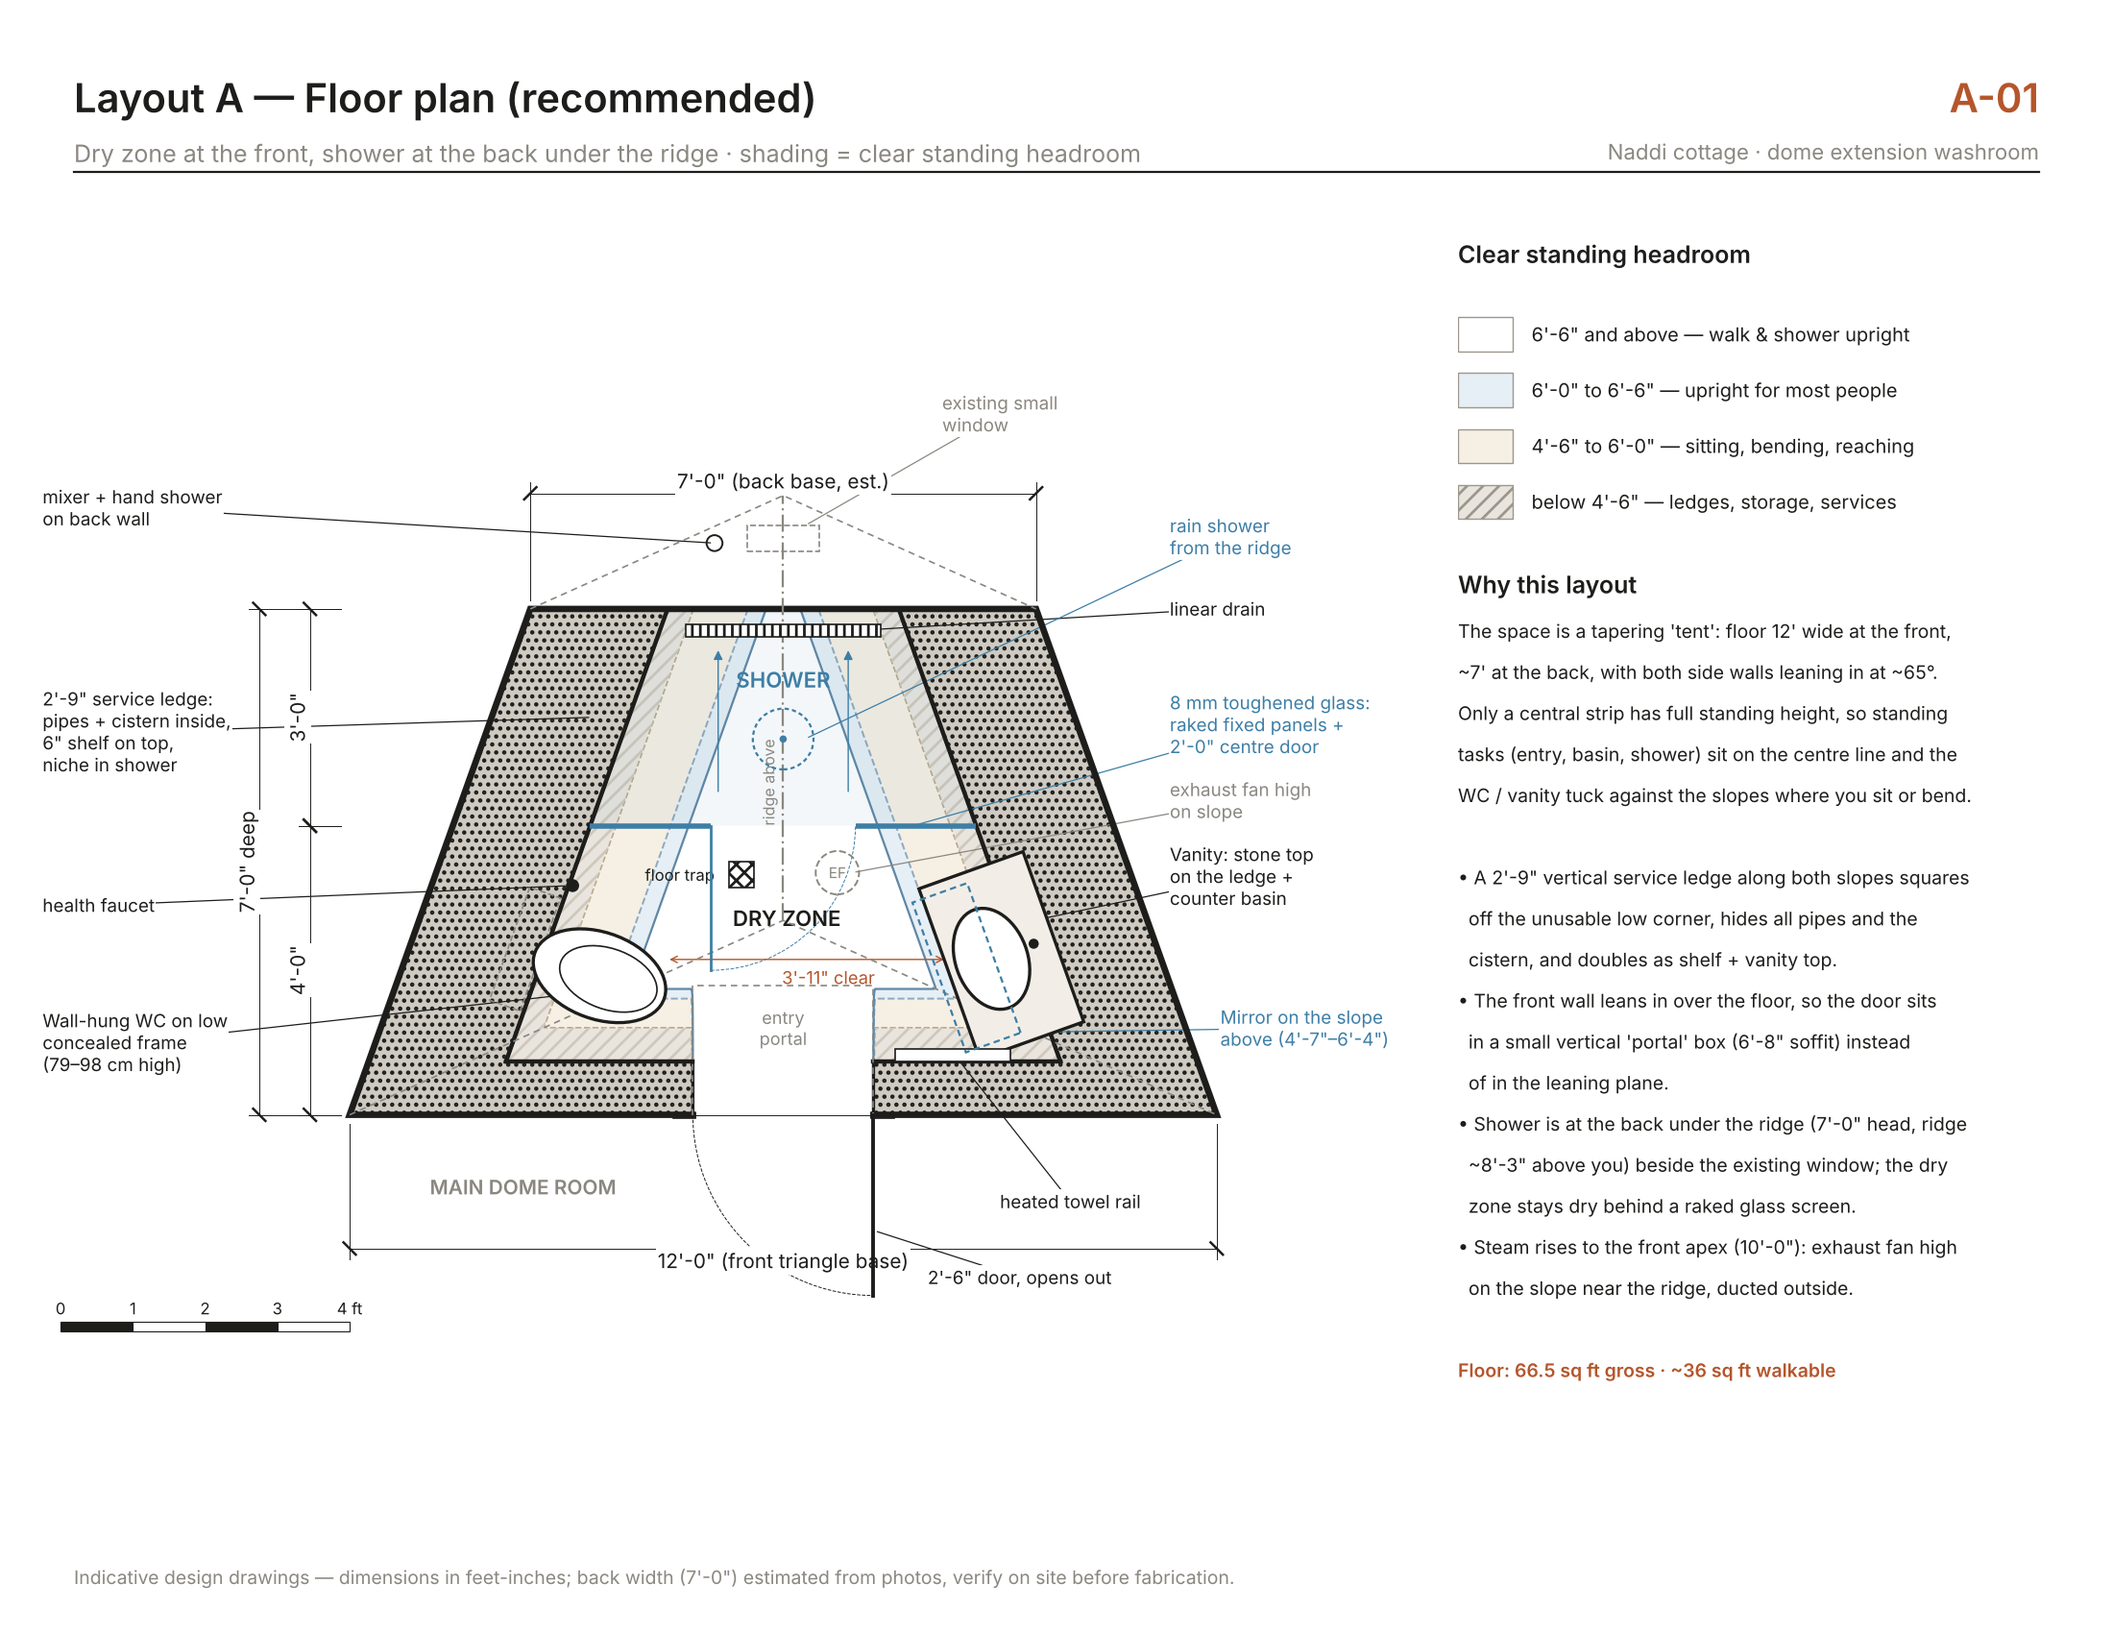
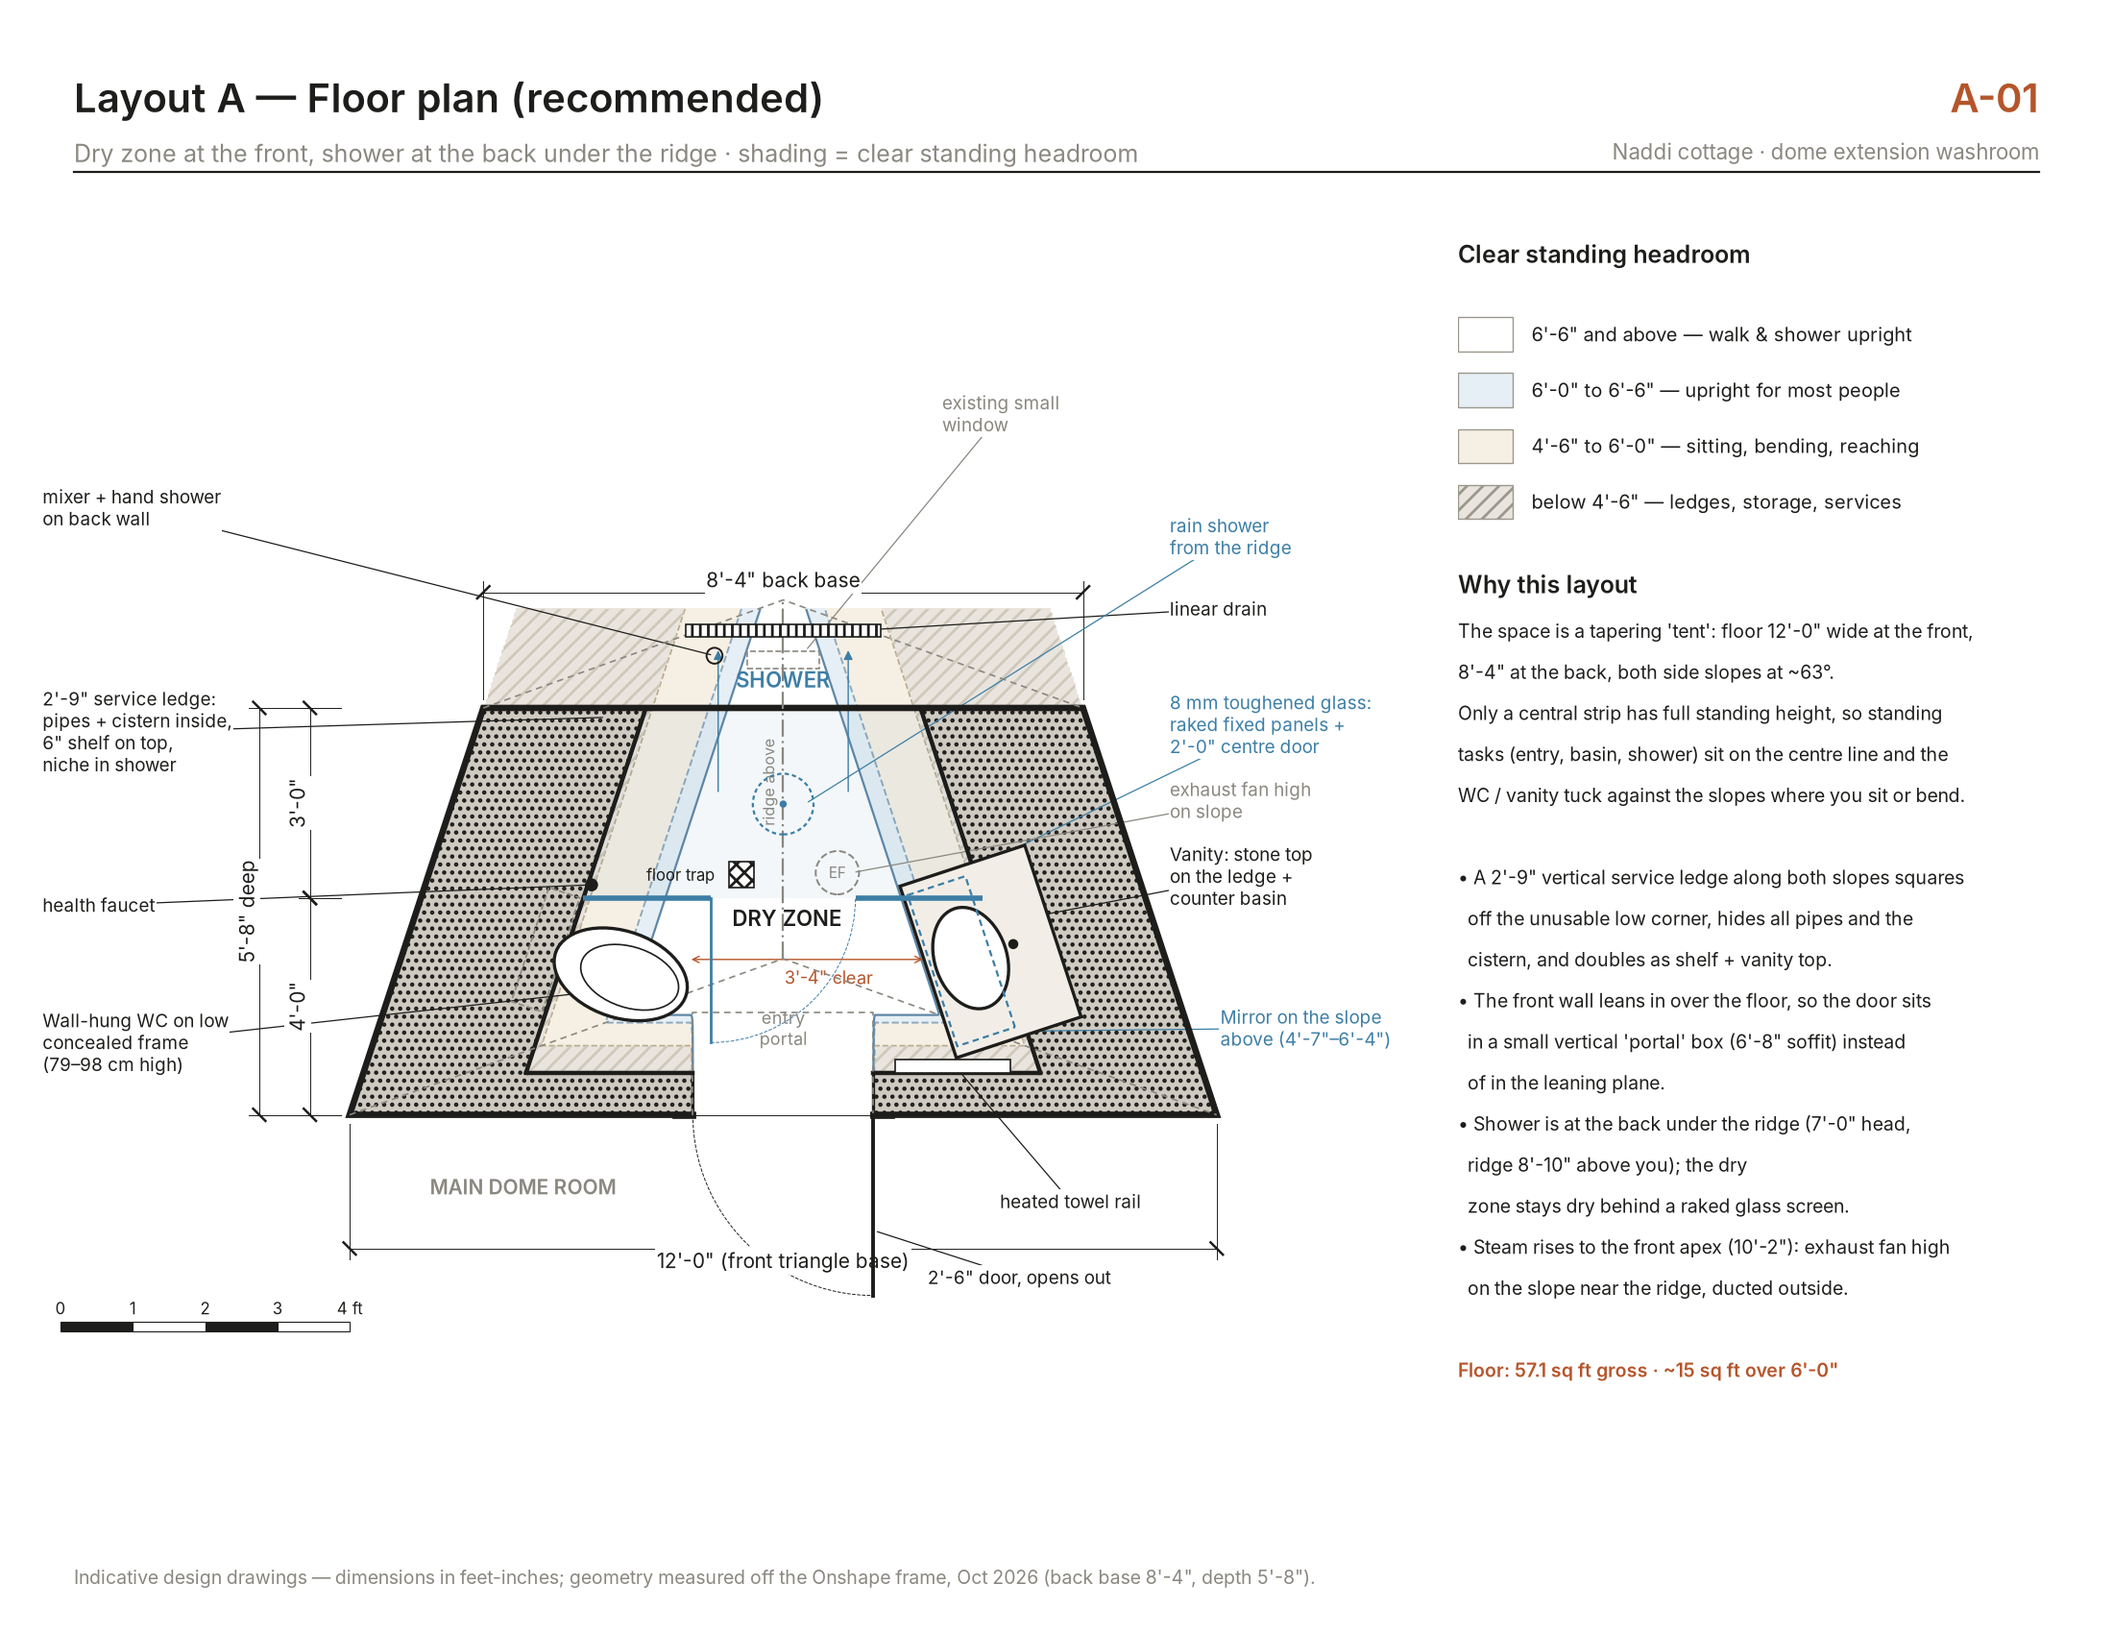
Redraw A-01 to A-06 on the measured washroom
The plans redrew from geom.py on their own, but a dozen dimension labels were
hardcoded strings and still read 7'-0" deep, 66.5 sq ft and 15 deg lean. They
now compute: back base 8'-4", depth 5'-8", 57.1 sq ft, side slopes 63 deg,
apexes 10'-2" and 7'-0".

Rebalances the shower zone. GLASS_Y 4.0 was set on a 7 ft floor and left only
1'-11" of shower on the real one; 3.0 gives a 2'-8" shower behind a 3'-0" dry
zone, clear of the ledges.

Also corrects A-06: its headroom shading ignored the front wall, which leans in
over the floor, so it overstated the usable area. It now calls geom.headroom()
rather than keeping a private copy of the plane maths, and the figure is 15 sq
ft over 6 ft, not 23. The fixture verdicts are unchanged - they all sit deep
enough that the dome face was never the binding constraint.

diff --git a/code/drawings.py b/code/drawings.py
@@ -44,7 +44,7 @@ def title_block(fig, title, sub, no):
     fig.text(0.965, 0.955, no, fontsize=15, fontweight="semibold", color=ACCENT, va="top", ha="right")
     fig.text(0.965, 0.915, "Naddi cottage · dome extension washroom", fontsize=8, color=GREY, va="top", ha="right")
     fig.add_artist(plt.Line2D([0.035, 0.965], [0.895, 0.895], color=INK, lw=0.8, transform=fig.transFigure))
-    fig.text(0.035, 0.03, "Indicative design drawings — dimensions in feet-inches; back width (7'-0\") estimated from photos, verify on site before fabrication.",
+    fig.text(0.035, 0.03, f"Indicative design drawings — dimensions in feet-inches; geometry measured off the Onshape frame, Oct 2026 (back base {fmt_ftin(BW)}, depth {fmt_ftin(D)}).",
              fontsize=7, color=GREY)
 
 
@@ -356,10 +356,10 @@ def draw_plan_A(fname="01_plan_layoutA.png", p3=False):
 
     # dimensions
     dim(ax, (-FW / 2, 0), (FW / 2, 0), 1.85, side=-1, text="12'-0\" (front triangle base)")
-    dim(ax, (-BW / 2, D), (BW / 2, D), 1.6, side=1, text="7'-0\" (back base, est.)")
+    dim(ax, (-BW / 2, D), (BW / 2, D), 1.6, side=1, text=f"{fmt_ftin(BW)} back base")
     dim(ax, (-FW / 2, 0), (-FW / 2, gy), 0.55, side=1, text="4'-0\"")
     dim(ax, (-FW / 2, gy), (-FW / 2, D), 0.55, side=1, text="3'-0\"")
-    dim(ax, (-FW / 2, 0), (-FW / 2, D), 1.25, side=1, text="7'-0\" deep")
+    dim(ax, (-FW / 2, 0), (-FW / 2, D), 1.25, side=1, text=f"{fmt_ftin(D)} deep")
     # clear width between WC front and vanity front
     wcf = local(ledge_pt(-1, WC_Y), L_ALONG, L_IN, [(0, 1.77)])[0]
     vf = local(ledge_pt(1, VAN_Y), R_ALONG, R_IN, [(0, 1.04)])[0]
@@ -391,8 +391,8 @@ def draw_plan_A(fname="01_plan_layoutA.png", p3=False):
     y = yy - 7.4
     lg.text(0, y, "Why this layout", fontsize=9, fontweight="semibold", color=INK)
     notes = [
-        "The space is a tapering 'tent': floor 12' wide at the front,",
-        "~7' at the back, with both side walls leaning in at ~65°.",
+        f"The space is a tapering 'tent': floor {fmt_ftin(FW)} wide at the front,",
+        f"{fmt_ftin(BW)} at the back, both side slopes at ~{math.degrees(math.atan(A)):.0f}°.",
         "Only a central strip has full standing height, so standing",
         "tasks (entry, basin, shower) sit on the centre line and the",
         "WC / vanity tuck against the slopes where you sit or bend.",
@@ -403,13 +403,13 @@ def draw_plan_A(fname="01_plan_layoutA.png", p3=False):
         "• The front wall leans in over the floor, so the door sits",
         "  in a small vertical 'portal' box (6'-8\" soffit) instead",
         "  of in the leaning plane.",
-        "• Shower is at the back under the ridge (7'-0\" head, ridge",
-        "  ~8'-3\" above you) beside the existing window; the dry",
+        f"• Shower is at the back under the ridge ({fmt_ftin(SHOWER_HEAD[2])} head,",
+        f"  ridge {fmt_ftin(side_z(0, SHOWER_HEAD[1]))} above you); the dry",
         ("  zone stays dry behind a tiled partition + curtain." if p3 else "  zone stays dry behind a raked glass screen."),
-        "• Steam rises to the front apex (10'-0\"): exhaust fan high",
+        f"• Steam rises to the front apex ({fmt_ftin(APEX_F[2])}): exhaust fan high",
         "  on the slope near the ridge, ducted outside.",
         "",
-        "Floor: 66.5 sq ft gross · ~36 sq ft walkable",
+        f"Floor: {(FW + BW) / 2 * D:.1f} sq ft gross · ~{walkable_area(6.0):.0f} sq ft over 6'-0\"",
     ]
     if p3:
         notes = notes[:-1] + [
@@ -484,7 +484,7 @@ def draw_long_section(fname="02_section_long.png"):
     ax.plot([0, FRONT_LEDGE_Y], [0, LEDGE_H], color=GREY, lw=LW_THIN, ls="--")
     # floor edge beyond is the floor; left slope meets front wall (projection = front line) - draw front plane line below portal dashed
     ax.plot([0, py], [0, pz], color=GREY, lw=LW_THIN, ls=(0, (4, 3)))
-    tag(ax, (0.75, 4.4), "front wall plane\n(15° lean)", fs=6.2, rot=75, color=GREY)
+    tag(ax, (0.75, 4.4), f"front wall plane\n({math.degrees(LEAN):.0f}° lean)", fs=6.2, rot=75, color=GREY)
     # WC beyond (side elevation)
     wy = WC_Y
     ax.add_patch(FancyBboxPatch((wy - 0.62, 1.0), 1.24, 0.33, boxstyle="round,pad=0.02,rounding_size=0.12",
@@ -523,15 +523,15 @@ def draw_long_section(fname="02_section_long.png"):
     # dims
     def vdim(x, z0, z1, txt=None, side=1):
         dim(ax, (x, z0), (x, z1), 0.0, text=txt, side=side, ext=False)
-    vdim(-2.2, 0, Fz, "10'-0\" front apex")
-    vdim(10.4, 0, Bz, "5'-10\" back apex")
+    vdim(-2.2, 0, Fz, f"{fmt_ftin(Fz)} front apex")
+    vdim(10.4, 0, Bz, f"{fmt_ftin(Bz)} back apex")
     vdim(-1.2, 0, pz, "6'-8\"")
     vdim(sy + 0.75, 0, sz, "7'-0\"")
     vdim(sy + 1.6, 0, rz, fmt_ftin(rz))
     vdim(11.35, w0[1], w1[1], "win.")
-    dim(ax, (0, -3.15), (D, -3.15), 0.0, text="7'-0\" floor", ext=False)
-    dim(ax, (0, -2.45), (GLASS_Y, -2.45), 0.0, text="4'-0\" dry zone", ext=False)
-    dim(ax, (GLASS_Y, -2.45), (D, -2.45), 0.0, text="3'-0\" shower", ext=False)
+    dim(ax, (0, -3.15), (D, -3.15), 0.0, text=f"{fmt_ftin(D)} floor", ext=False)
+    dim(ax, (0, -2.45), (GLASS_Y, -2.45), 0.0, text=f"{fmt_ftin(GLASS_Y)} dry zone", ext=False)
+    dim(ax, (GLASS_Y, -2.45), (D, -2.45), 0.0, text=f"{fmt_ftin(D - GLASS_Y)} shower", ext=False)
     dim(ax, (0, pz + 0.75), (py, pz + 0.75), 0.0, text=fmt_ftin(py), ext=False, fs=6.6)
 
     # labels
@@ -645,7 +645,7 @@ def draw_cross_section(fname="03_section_cross.png"):
     ax.plot([m1[0] + 0.1, 8.0], [6.3, 6.3], color=GREY, lw=LW_HAIR)
 
     label(ax, ((m0[0] + m1[0]) / 2, 5.45), "mirror fixed to the slope — it tilts\n~25° downward, like an accessible\ntilt-mirror; a vertical mirror would\nhang into your head when washing", (3.8, 8.9), fs=6.6, color=WATER)
-    label(ax, (-hf + 0.9, 1.4), "insulated, lined\nslope (65°)", (-8.4, 3.6), fs=6.6)
+    label(ax, (-hf + 0.9, 1.4), f"insulated, lined\nslope ({math.degrees(math.atan(A)):.0f}°)", (-8.4, 3.6), fs=6.6)
     label(ax, (-lxx - 0.3, LEDGE_H), "ledge shelf", (-8.4, 2.3), fs=6.6)
     label(ax, (-1.6, 5.4), "raked glass screen,\nshower beyond", (-8.4, 6.3), fs=6.4, color=WATER)
     label(ax, (0, APEX_B[2] - 0.4), "back wall + window beyond", (-6.6, 7.6), fs=6.4, color=GREY)

diff --git a/code/washroom_headroom.py b/code/washroom_headroom.py
@@ -24,22 +24,12 @@ for f in ("Inter", "Inter Display"):
 plt.rcParams["font.size"] = 8
 
 # ----------------------------------------------------------------- geometry
-# measured corners, washroom coords: x across, y depth from the dome base line,
-# z on the dome floor datum. The washroom floor sits 0.25 ft below that datum.
-P1 = (5.78, 0.21, 0.21)      # front floor corner, right
-P2 = (3.93, 5.92, 0.21)      # back floor corner, right
-P3 = (0.07, 2.06, 9.93)      # front apex, the upper-ring vertex
-WFLOOR = -0.25
-
-FW, BW, D = 12.0, 8.30, 5.63
-TAPER = (FW - BW) / 2 / D
-
-_v1 = tuple(P2[i] - P1[i] for i in range(3))
-_v2 = tuple(P3[i] - P1[i] for i in range(3))
-N = (_v1[1] * _v2[2] - _v1[2] * _v2[1],
-     _v1[2] * _v2[0] - _v1[0] * _v2[2],
-     _v1[0] * _v2[1] - _v1[1] * _v2[0])
-DP = sum(N[i] * P1[i] for i in range(3))
+# Everything comes from geom.py so the drawing cannot drift from the model.
+# geom.headroom() limits by BOTH the side slope and the front wall, which leans
+# in over the floor: near the dome face the ceiling is the wall coming at you.
+sys.path.insert(0, os.path.dirname(os.path.abspath(__file__)))
+from geom import (FW, BW, D, LEDGE_H, half_floor, headroom, walkable_area,
+                  fmt_ftin, A, C, T15)
 
 LEDGE_A = 1.90      # Layout A as drawn: ledge face this far in from the floor edge
 LEDGE_B = 2.25      # revised: 4 in further in
@@ -47,29 +37,30 @@ STAND, SEAT = 1.10, 0.70    # how far inboard of the ledge face a head sits
 
 
 def head(x, y):
-    return (DP - N[0] * np.abs(x) - N[1] * y) / N[2] - WFLOOR
-
-
-def half_floor(y):
-    return FW / 2 - TAPER * y
+    return headroom(abs(x), y)
 
 
 def half_at(h, y):
-    return (DP - N[1] * y - N[2] * (h + WFLOOR)) / N[0]
+    """half-width where the clear height is h; 0 if nowhere at this depth"""
+    if headroom(0.0, y) < h:
+        return 0.0
+    lo, hi = 0.0, half_floor(y)
+    for _ in range(40):
+        mid = (lo + hi) / 2
+        if headroom(mid, y) >= h:
+            lo = mid
+        else:
+            hi = mid
+    return lo
 
 
 def band(h):
-    ys = np.linspace(0.0, D, 60)
-    right = [(min(max(half_at(h, y), 0), half_floor(y)), y) for y in ys]
+    ys = np.linspace(0.0, D, 90)
+    right = [(min(half_at(h, y), half_floor(y)), y) for y in ys]
     return [(-x, y) for x, y in reversed(right)] + right
 
 
-def ftin(v):
-    ft = int(v)
-    inch = round((v - ft) * 12)
-    if inch == 12:
-        ft, inch = ft + 1, 0
-    return f"{ft}'-{inch}\""
+ftin = fmt_ftin
 
 
 def mark(ax, x, y, label, need):
@@ -96,7 +87,7 @@ def draw_plan(ax, ledge_dx):
                              fc="#efe7dc", ec=GREY, lw=0.9, zorder=5))
     ax.add_patch(MplPoly([(-FW / 2, 0.0), (FW / 2, 0.0), (BW / 2, D), (-BW / 2, D)],
                          closed=True, fc="none", ec=INK, lw=1.6, zorder=6))
-    for h, y in ((7.0, 0.9), (6.5, 2.1), (6.0, 3.3), (4.4, 4.8)):
+    for h, y in ((7.0, 2.6), (6.5, 3.2), (6.0, 3.8), (4.4, 4.9)):
         x = min(max(half_at(h, y), 0), half_floor(y))
         ax.text(x + 0.14, y, f"{h:g}'", color=GREY, fontsize=6.4, va="center", zorder=7)
     ax.plot([-FW / 2, FW / 2], [0, 0], color=INK, lw=2.4, zorder=7)
@@ -131,12 +122,17 @@ def main(out):
              fontsize=14, fontweight="bold")
     fig.text(0.032, 0.915,
              "Shaded by clear height over the floor, read at head height. The extension is a "
-             "hipped wedge, so height falls away fast to the sides.", color=GREY, fontsize=8.2)
+             "hipped wedge AND the dome face leans in over the floor, so the usable band is "
+             "narrow.", color=GREY, fontsize=8.2)
+    vA = head(half_floor(2.3) - LEDGE_A - STAND, 2.3)
+    vB = head(half_floor(2.3) - LEDGE_B - STAND, 2.3)
     fig.text(0.032, 0.045,
-             "A  Layout A very nearly works on the real frame. The WC is fine seated and the shower has "
-             "8'-5\" on the centre line. The one failure is the vanity: 5'-11\" standing at the basin.\n"
-             "B  Pulling that ledge face in four inches gives 6'-7\". Moving the vanity forward instead does "
-             "not help — the ledge follows the tapering floor edge, so forward is also outward.",
+             f"A  Layout A very nearly works on the real frame. The WC is fine seated and the shower "
+             f"has {ftin(head(0, 5.2))} on the centre line. The one failure is the vanity: "
+             f"{ftin(vA)} standing at the basin.\n"
+             f"B  Pulling that ledge face in four inches gives {ftin(vB)}. Only "
+             f"{walkable_area(6.0):.0f} of the {(FW + BW) / 2 * D:.0f} sq ft floor has 6 ft over it "
+             f"\u2014 the front strip is lost to the dome face leaning in over it, not the side slopes.",
              color=INK, fontsize=7.8, linespacing=1.6)
     fig.text(0.967, 0.95, "A-06", color=INK, fontsize=11, fontweight="bold", ha="right")
     fig.subplots_adjust(left=0.025, right=0.975, top=0.875, bottom=0.17, wspace=0.04)

diff --git a/code/geom.py b/code/geom.py
@@ -59,6 +59,21 @@ def headroom(x, y):
     return max(h, 0.0)
 
 
+def walkable_area(h, step=0.04):
+    """floor area, sq ft, with at least h of clear height over it"""
+    a = 0.0
+    y = step / 2
+    while y < D:
+        hw = half_floor(y)
+        x = step / 2
+        while x < hw:
+            if headroom(x, y) >= h:
+                a += 2 * step * step
+            x += step
+        y += step
+    return a
+
+
 # ---------------- design parameters (Layout A, recommended) ----------------
 LEDGE_H = 2.75     # 2'-9" service ledge / counter height
 LEDGE_DX = 2.25    # ledge face: x-distance in from floor edge.
@@ -77,10 +92,12 @@ EDGE_DIR_R = ((BW / 2 - FW / 2) / _L, D / _L)      # front -> back along right e
 NORM_R_IN = (-D / _L, -(FW / 2 - BW / 2) / _L)     # inward normal of right edge (points left & to front)
 EDGE_ANG = math.degrees(math.atan(TAPER))          # 19.65 deg
 
-GLASS_Y = 3.7        # shower screen line (was 4.0, on a 7 ft deep floor)
+GLASS_Y = 3.0        # shower screen line. Was 4.0 on a 7 ft deep floor, which left
+                     # only 1'-11" of shower on the real 5'-8" one. 3.0 gives a
+                     # 2'-8" shower behind a 3'-0" dry zone, clear of the ledges.
 GLASS_DOOR_HW = 1.0  # half width of central glass door
 GLASS_TOP = 6.5
-SHOWER_HEAD = (0.0, 4.6, 7.0)   # was y=5.2, beyond the real back wall
+SHOWER_HEAD = (0.0, 4.3, 7.0)   # was y=5.2, beyond the real back wall
 WC_Y = 2.2           # WC centre (on left ledge face)
 VAN_Y = 2.3          # vanity centre (on right ledge face)
 DOOR_HW = 1.25       # 2'-6" door
